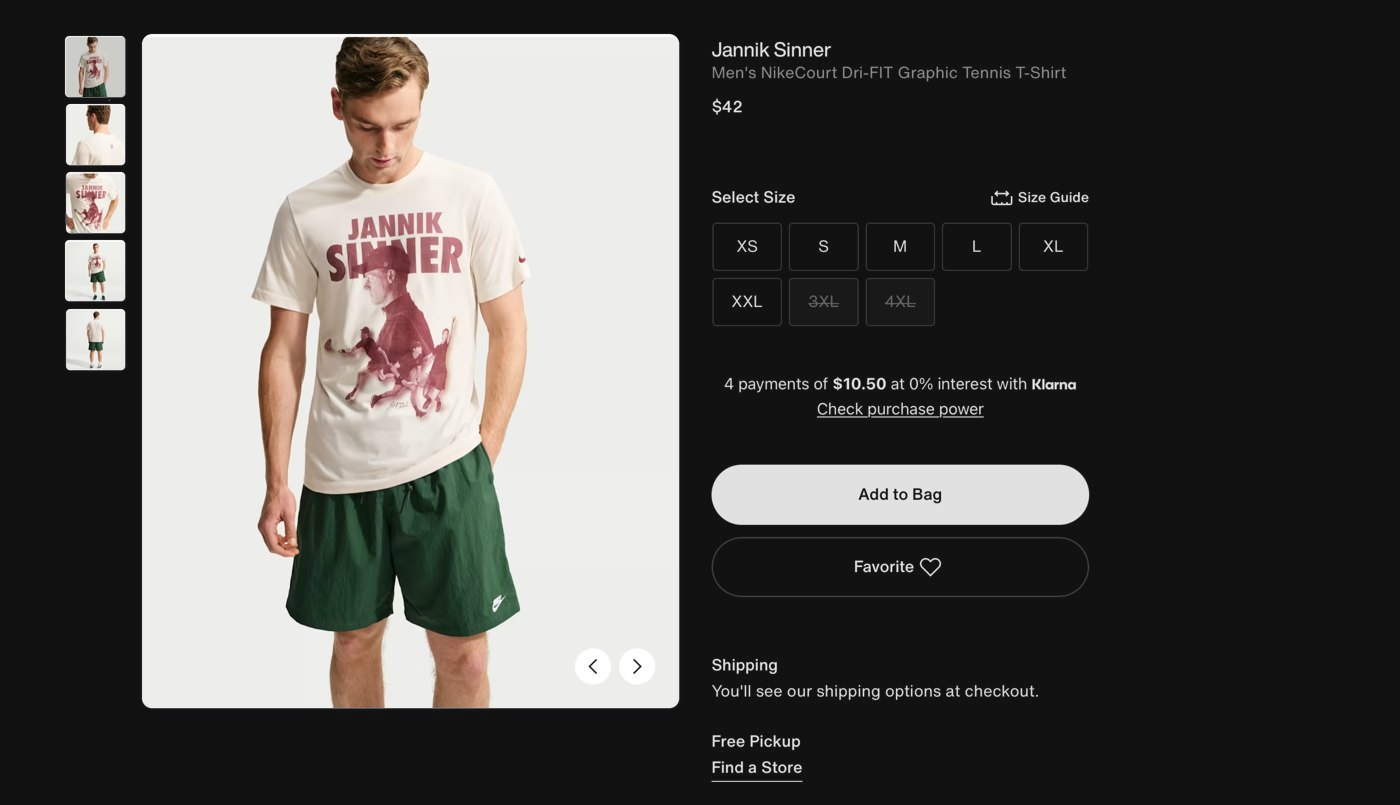
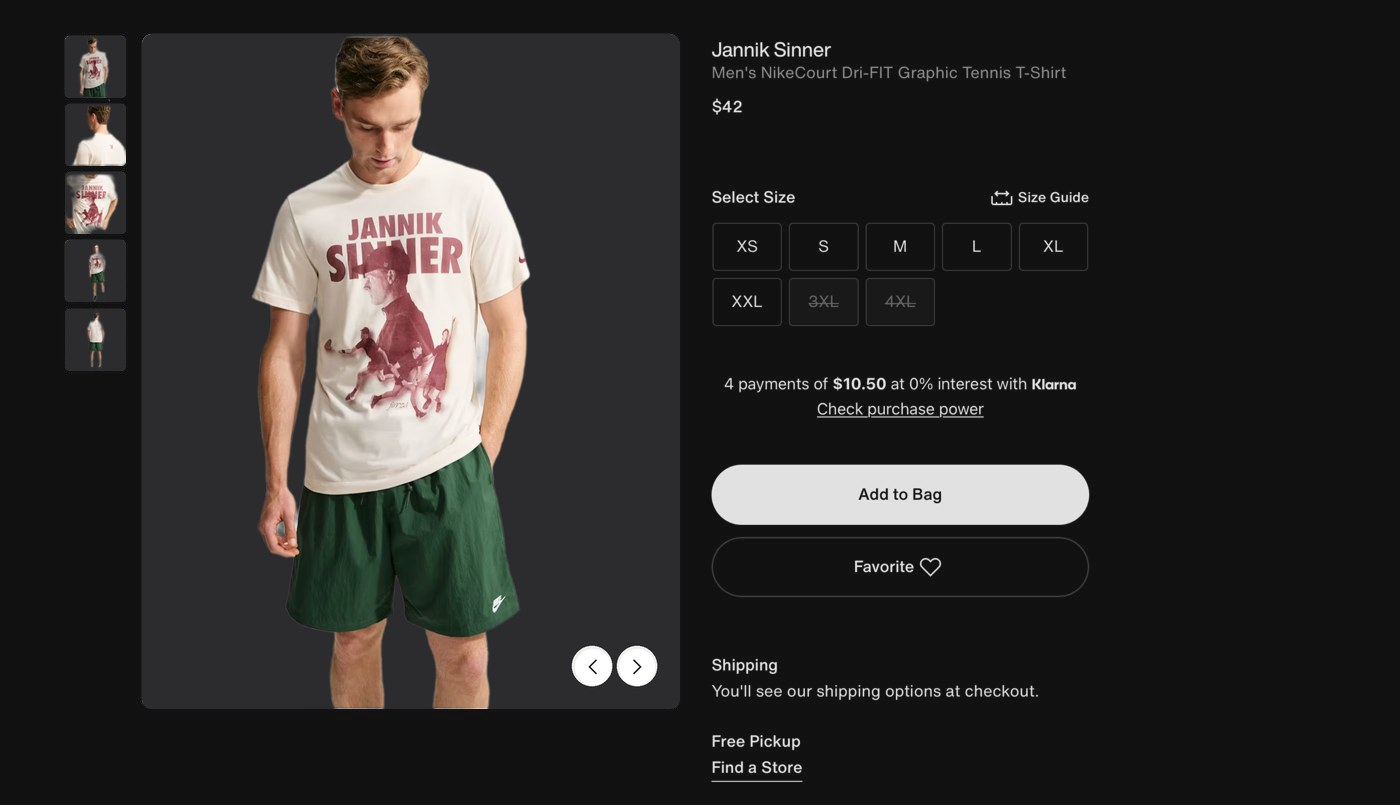
AI page: dark Nike product page puts the photos on a lighter dark gray (person cut out on this Mac with Apple Vision)

Changed region(s): [[0.0307, 0.0311, 0.4914, 0.9006]]

diff --git a/ai/index.html b/ai/index.html
@@ -191,7 +191,7 @@
 </div></div></div><p class="ai-note ai-live">The Korean version, after a Champion Advocate&#x27;s fix went back to the agent. This is a copy of the Champions Hub, rebuilt from a screen recording, and the post is a made-up example.</p><nav class="hb-chapters" aria-label="Skip to a part of the demo"><button type="button" style="--p:0"><span class="hb-fill"></span><span class="hb-ch-t">Share a Post</span></button><button type="button" style="--p:0"><span class="hb-fill"></span><span class="hb-ch-t">Localize</span></button><button type="button" style="--p:0"><span class="hb-fill"></span><span class="hb-ch-t">Champion Fix</span></button><button type="button" style="--p:0"><span class="hb-fill"></span><span class="hb-ch-t">Send to LinkedIn</span></button><button type="button" style="--p:0"><span class="hb-fill"></span><span class="hb-ch-t">Whole Feed</span></button></nav><button class="ai-btn ai-toggle" type="button" aria-label="Pause animation"><svg viewBox="0 0 24 24" aria-hidden="true"><path class="i-pause" d="M9 6v12M15 6v12"/><path class="i-play" d="M8 5.5v13l11-6.5z"/></svg></button></div></figure>
 <section class="wrap prose ai-sec" id="geo"><p class="ai-step">5 · Optimize</p><h2>Written for Search Engines and AI Answers</h2>
 <p>People type keywords into Google and sometimes ask their AI full questions. GEO and AEO, generative and answer engine optimization, mean writing pages that work for both.</p>
-<p>In 2024, I organized QAD Redzone&#x27;s FAQs and blogs so search engines and AI answers could find them. At Nike I wrote alt text and product tags for both kinds of search: for someone who knows exactly what they want, and for someone who only knows roughly.</p></section><figure class="wrap ai-demo ai-geo" data-demo="geo" aria-label="Illustration: a Nike product and a QAD Redzone FAQ, each found by a keyword search and by an AI answer"><script type="application/json" class="ai-data">{"cases": [{"id": "nike", "label": "Nike", "source": "Nike.com product page: what both of them read", "cite": "From the product page", "search": "jannik sinner nike shirt", "ask": "What should I wear to play tennis on a hot day?", "thumbs": ["assets/ai/nike-thumb-1.jpg", "assets/ai/nike-thumb-2.jpg", "assets/ai/nike-thumb-3.jpg"], "results": ["Jannik Sinner Men's NikeCourt Dri-FIT Graphic Tennis T-Shirt", "NikeCourt Men's Dri-FIT Tennis Tops", "Men's Tennis Clothing"], "answer": "For heat, pick a light top that pulls sweat away from your skin. The Jannik Sinner Men's NikeCourt Dri-FIT Graphic Tennis T-Shirt is made for that.", "fields": [["Alt text", "Man wearing the Jannik Sinner NikeCourt Dri-FIT graphic tennis T-shirt in cream with a red print, front view, with green shorts"], ["Product tags", "tennis, men's, Dri-FIT, graphic tee, NikeCourt, Jannik Sinner, cream"], ["Written for", "Someone who knows the shirt, and someone who only roughly knows what they need"]], "page": "assets/ai/nike-pdp.jpg", "page_alt": "The Nike.com product page for the Jannik Sinner Men's NikeCourt Dri-FIT Graphic Tennis T-Shirt", "page_dark": "assets/ai/nike-pdp-dark.jpg"}, {"id": "redzone", "label": "QAD Redzone", "source": "QAD Redzone FAQ and blog: what both of them read", "cite": "From the FAQ", "platform": "Semrush, where I tracked it at QAD Redzone. The numbers are hidden.", "search": "OEE software manufacturing", "ask": "What is OEE, and how do frontline teams improve it?", "thumbs": ["guide", "team", "dash"], "results": ["What Is OEE? A Guide for Manufacturers", "How Frontline Teams Improve OEE", "QAD Redzone Production System"], "answer": "OEE, overall equipment effectiveness, is how much of a line's planned time is truly productive. Frontline teams improve it by tracking losses as they happen and fixing them shift by shift.", "fields": [["FAQ", "The question as the heading, a short answer first, then the detail"], ["Blog", "One question per post, answered in the first lines"], ["Written for", "Someone searching a keyword, and someone asking an AI a full question"]]}], "step": "5 · Optimize"}</script><div class="ai-stage"><div class="hb-views geo-switch" role="group" aria-label="Which example"><button type="button" data-case="0" aria-pressed="true">Nike</button><button type="button" data-case="1" aria-pressed="false">QAD Redzone</button></div><div class="geo-case geo-nike" data-case="0"><div class="geo-grid"><p class="geo-k">Keywords</p><p class="geo-k">A question</p><div class="ai-window geo-pane"><div class="ai-bar" aria-hidden="true"><span class="ai-dots"><i></i><i></i><i></i></span><span class="ai-title">Search engine</span></div><div class="geo-in geo-search"><svg viewBox="0 0 24 24" aria-hidden="true"><circle cx="10.5" cy="10.5" r="6"/><path d="M15 15l5 5"/></svg><span class="geo-typed" data-text="jannik sinner nike shirt">jannik sinner nike shirt</span></div><ul class="geo-results"><li><span class="geo-thumb" aria-hidden="true"><img src="../assets/ai/nike-thumb-1.jpg?v=4a2936bc" alt="" loading="lazy"></span>Jannik Sinner Men&#x27;s NikeCourt Dri-FIT Graphic Tennis T-Shirt</li><li><span class="geo-thumb" aria-hidden="true"><img src="../assets/ai/nike-thumb-2.jpg?v=48887214" alt="" loading="lazy"></span>NikeCourt Men&#x27;s Dri-FIT Tennis Tops</li><li><span class="geo-thumb" aria-hidden="true"><img src="../assets/ai/nike-thumb-3.jpg?v=e3c73d07" alt="" loading="lazy"></span>Men&#x27;s Tennis Clothing</li></ul></div><div class="ai-window geo-pane"><div class="ai-bar" aria-hidden="true"><span class="ai-dots"><i></i><i></i><i></i></span><span class="ai-title">AI assistant</span></div><div class="geo-in geo-ask"><span class="geo-typed" data-text="What should I wear to play tennis on a hot day?">What should I wear to play tennis on a hot day?</span></div><p class="geo-answer"><svg class="ai-spark" viewBox="0 0 24 24" aria-hidden="true"><path d="M12 3c.6 4.2 2.8 6.4 7 7-4.2.6-6.4 2.8-7 7-.6-4.2-2.8-6.4-7-7 4.2-.6 6.4-2.8 7-7Z"/></svg><span>For heat, pick a light top that pulls sweat away from your skin. The Jannik Sinner Men&#x27;s NikeCourt Dri-FIT Graphic Tennis T-Shirt is made for that.</span></p><p class="geo-cite">From the product page</p></div></div><div class="geo-src"><div class="ai-window"><div class="ai-bar" aria-hidden="true"><span class="ai-dots"><i></i><i></i><i></i></span><span class="ai-title">Nike.com product page: what both of them read</span></div><img class="geo-page" src="../assets/ai/nike-pdp.jpg?v=5dee6cad" alt="The Nike.com product page for the Jannik Sinner Men&#x27;s NikeCourt Dri-FIT Graphic Tennis T-Shirt" loading="lazy"><img class="geo-page geo-page-dark" src="../assets/ai/nike-pdp-dark.jpg?v=971993d3" alt="The Nike.com product page for the Jannik Sinner Men&#x27;s NikeCourt Dri-FIT Graphic Tennis T-Shirt" loading="lazy"><ul class="geo-fields"><li><span class="ai-label">Alt text</span><span>Man wearing the Jannik Sinner NikeCourt Dri-FIT graphic tennis T-shirt in cream with a red print, front view, with green shorts</span></li><li><span class="ai-label">Product tags</span><span>tennis, men&#x27;s, Dri-FIT, graphic tee, NikeCourt, Jannik Sinner, cream</span></li><li><span class="ai-label">Written for</span><span>Someone who knows the shirt, and someone who only roughly knows what they need</span></li></ul></div></div></div><div class="geo-case geo-redzone" data-case="1" hidden><div class="geo-grid"><p class="geo-k">Keywords</p><p class="geo-k">A question</p><div class="ai-window geo-pane"><div class="ai-bar" aria-hidden="true"><span class="ai-dots"><i></i><i></i><i></i></span><span class="ai-title">Search engine</span></div><div class="geo-in geo-search"><svg viewBox="0 0 24 24" aria-hidden="true"><circle cx="10.5" cy="10.5" r="6"/><path d="M15 15l5 5"/></svg><span class="geo-typed" data-text="OEE software manufacturing">OEE software manufacturing</span></div><ul class="geo-results"><li><span class="geo-thumb" aria-hidden="true"><svg viewBox="0 0 24 24"><rect class="gt-fill" x="5.5" y="3" width="13" height="18" rx="2"/><path class="gt-line" d="M8.5 8h7M8.5 11.5h7M8.5 15h4.5"/></svg></span>What Is OEE? A Guide for Manufacturers</li><li><span class="geo-thumb" aria-hidden="true"><svg viewBox="0 0 24 24"><circle class="gt-fill" cx="8.5" cy="9" r="3"/><circle class="gt-fill" cx="15.8" cy="9.5" r="2.5"/><path class="gt-fill" d="M3 19c.4-3.2 2.7-5.3 5.5-5.3s5.1 2.1 5.5 5.3zM13.6 14.3c.7-.4 1.4-.6 2.2-.6 2.4 0 4.3 1.8 4.7 4.6h-5.4c-.2-1.6-.7-2.9-1.5-4z"/></svg></span>How Frontline Teams Improve OEE</li><li><span class="geo-thumb" aria-hidden="true"><svg viewBox="0 0 24 24"><rect class="gt-fill" x="3" y="4.5" width="18" height="15" rx="2.5"/><path class="gt-line" d="M6.5 15.5l3.2-3.6 2.8 2.2 4.8-5.6"/><path class="gt-line" d="M6.5 8h3"/></svg></span>QAD Redzone Production System</li></ul></div><div class="ai-window geo-pane"><div class="ai-bar" aria-hidden="true"><span class="ai-dots"><i></i><i></i><i></i></span><span class="ai-title">AI assistant</span></div><div class="geo-in geo-ask"><span class="geo-typed" data-text="What is OEE, and how do frontline teams improve it?">What is OEE, and how do frontline teams improve it?</span></div><p class="geo-answer"><svg class="ai-spark" viewBox="0 0 24 24" aria-hidden="true"><path d="M12 3c.6 4.2 2.8 6.4 7 7-4.2.6-6.4 2.8-7 7-.6-4.2-2.8-6.4-7-7 4.2-.6 6.4-2.8 7-7Z"/></svg><span>OEE, overall equipment effectiveness, is how much of a line&#x27;s planned time is truly productive. Frontline teams improve it by tracking losses as they happen and fixing them shift by shift.</span></p><p class="geo-cite">From the FAQ</p></div></div><div class="geo-src"><div class="ai-window"><div class="ai-bar" aria-hidden="true"><span class="ai-dots"><i></i><i></i><i></i></span><span class="ai-title">QAD Redzone FAQ and blog: what both of them read</span></div><ul class="geo-fields"><li><span class="ai-label">FAQ</span><span>The question as the heading, a short answer first, then the detail</span></li><li><span class="ai-label">Blog</span><span>One question per post, answered in the first lines</span></li><li><span class="ai-label">Written for</span><span>Someone searching a keyword, and someone asking an AI a full question</span></li></ul></div></div><div class="geo-sr"><div class="ai-window sr-window"><div class="ai-bar" aria-hidden="true"><span class="ai-dots"><i></i><i></i><i></i></span><span class="ai-title">Semrush  ·  SEO Dashboard: QAD Redzone</span></div><div class="sr-grid"><section class="sr-box"><p class="sr-tab sr-tab-ai">AI Search</p><div class="sr-tot"><p><span>AI Visibility</span><span class="sr-gauge"></span><b class="sr-v" aria-hidden="true"></b></p><p><span>Mentions</span><b class="sr-v" aria-hidden="true"></b></p><p><span>Cited pages</span><b class="sr-v" aria-hidden="true"></b></p></div><ul class="sr-ai"><li><span class="sr-src sr-g"></span>AI Overview<b class="sr-v" aria-hidden="true"></b><b class="sr-v" aria-hidden="true"></b></li><li><span class="sr-src sr-g"></span>AI Mode<b class="sr-v" aria-hidden="true"></b><b class="sr-v" aria-hidden="true"></b></li><li><span class="sr-src sr-gpt"></span>ChatGPT<b class="sr-v" aria-hidden="true"></b><b class="sr-v" aria-hidden="true"></b></li><li><span class="sr-src sr-gem"></span>Gemini<i class="sr-soon">soon</i></li></ul><p class="sr-h sr-cited-h">Top cited pages</p><ul class="sr-cited"><li><span class="sr-kind">FAQ</span><span class="sr-url">/faq/what-is-oee</span><b class="sr-v" aria-hidden="true"></b></li><li><span class="sr-kind">Blog</span><span class="sr-url">/blog/how-frontline-teams-improve-oee</span><b class="sr-v" aria-hidden="true"></b></li></ul></section><section class="sr-box"><p class="sr-tab sr-tab-seo">SEO</p><ul class="sr-seo"><li><span>Authority Score</span><b class="sr-v" aria-hidden="true"></b></li><li><span>Organic Traffic</span><b class="sr-v" aria-hidden="true"></b></li><li><span>Organic Keywords</span><b class="sr-v" aria-hidden="true"></b></li><li><span>Ref. Domains</span><b class="sr-v" aria-hidden="true"></b></li></ul></section><section class="sr-box sr-wide"><p class="sr-tab sr-tab-pt">Position Tracking</p><div class="sr-pt"><div class="sr-vis"><p class="sr-h">Visibility</p><b class="sr-v" aria-hidden="true"></b><svg class="sr-area" viewBox="0 0 200 80" preserveAspectRatio="none" aria-hidden="true"><path d="M0 34 L14 22 L28 36 L44 20 L60 26 L74 16 L88 30 L102 24 L116 38 L130 30 L146 44 L160 36 L176 48 L200 46 V80 H0Z"/></svg></div><div><p class="sr-h">Keywords</p><ul class="sr-tops"><li><span>Top 3</span><span class="sr-ring"></span><b class="sr-v" aria-hidden="true"></b><svg class="sr-spark" viewBox="0 0 100 20" preserveAspectRatio="none" aria-hidden="true"><path d="M0 14 L12 12 L20 15 L30 8 L40 11 L52 6 L62 10 L74 5 L86 9 L100 7"/></svg></li><li><span>Top 10</span><span class="sr-ring"></span><b class="sr-v" aria-hidden="true"></b><svg class="sr-spark" viewBox="0 0 100 20" preserveAspectRatio="none" aria-hidden="true"><path d="M0 14 L12 12 L20 15 L30 8 L40 11 L52 6 L62 10 L74 5 L86 9 L100 7"/></svg></li><li><span>Top 20</span><span class="sr-ring"></span><b class="sr-v" aria-hidden="true"></b><svg class="sr-spark" viewBox="0 0 100 20" preserveAspectRatio="none" aria-hidden="true"><path d="M0 14 L12 12 L20 15 L30 8 L40 11 L52 6 L62 10 L74 5 L86 9 L100 7"/></svg></li><li><span>Top 100</span><span class="sr-ring"></span><b class="sr-v" aria-hidden="true"></b><svg class="sr-spark" viewBox="0 0 100 20" preserveAspectRatio="none" aria-hidden="true"><path d="M0 14 L12 12 L20 15 L30 8 L40 11 L52 6 L62 10 L74 5 L86 9 L100 7"/></svg></li></ul></div><div><p class="sr-h">Top Keywords</p><p class="sr-kh"><span>Keywords</span><span></span><span>Position</span><span>Visibility</span></p><ul class="sr-kw"><li><span>oee software</span><i class="sr-tag sr-tag-keyword">Keyword</i><b class="sr-v" aria-hidden="true"></b><b class="sr-v" aria-hidden="true"></b></li><li><span>what is oee</span><i class="sr-tag sr-tag-question">Question</i><b class="sr-v" aria-hidden="true"></b><b class="sr-v" aria-hidden="true"></b></li><li><span>how to improve oee</span><i class="sr-tag sr-tag-question">Question</i><b class="sr-v" aria-hidden="true"></b><b class="sr-v" aria-hidden="true"></b></li><li><span>manufacturing downtime</span><i class="sr-tag sr-tag-keyword">Keyword</i><b class="sr-v" aria-hidden="true"></b><b class="sr-v" aria-hidden="true"></b></li><li><span>frontline production</span><i class="sr-tag sr-tag-keyword">Keyword</i><b class="sr-v" aria-hidden="true"></b><b class="sr-v" aria-hidden="true"></b></li></ul></div></div></section></div></div><p class="geo-k sr-note">Semrush, where I tracked it at QAD Redzone. The numbers are hidden.</p></div></div><button class="ai-btn ai-toggle" type="button" aria-label="Pause animation"><svg viewBox="0 0 24 24" aria-hidden="true"><path class="i-pause" d="M9 6v12M15 6v12"/><path class="i-play" d="M8 5.5v13l11-6.5z"/></svg></button></div><figcaption class="ai-note">The Nike product page is real; the searches, questions and wording are examples.</figcaption></figure>
+<p>In 2024, I organized QAD Redzone&#x27;s FAQs and blogs so search engines and AI answers could find them. At Nike I wrote alt text and product tags for both kinds of search: for someone who knows exactly what they want, and for someone who only knows roughly.</p></section><figure class="wrap ai-demo ai-geo" data-demo="geo" aria-label="Illustration: a Nike product and a QAD Redzone FAQ, each found by a keyword search and by an AI answer"><script type="application/json" class="ai-data">{"cases": [{"id": "nike", "label": "Nike", "source": "Nike.com product page: what both of them read", "cite": "From the product page", "search": "jannik sinner nike shirt", "ask": "What should I wear to play tennis on a hot day?", "thumbs": ["assets/ai/nike-thumb-1.jpg", "assets/ai/nike-thumb-2.jpg", "assets/ai/nike-thumb-3.jpg"], "results": ["Jannik Sinner Men's NikeCourt Dri-FIT Graphic Tennis T-Shirt", "NikeCourt Men's Dri-FIT Tennis Tops", "Men's Tennis Clothing"], "answer": "For heat, pick a light top that pulls sweat away from your skin. The Jannik Sinner Men's NikeCourt Dri-FIT Graphic Tennis T-Shirt is made for that.", "fields": [["Alt text", "Man wearing the Jannik Sinner NikeCourt Dri-FIT graphic tennis T-shirt in cream with a red print, front view, with green shorts"], ["Product tags", "tennis, men's, Dri-FIT, graphic tee, NikeCourt, Jannik Sinner, cream"], ["Written for", "Someone who knows the shirt, and someone who only roughly knows what they need"]], "page": "assets/ai/nike-pdp.jpg", "page_alt": "The Nike.com product page for the Jannik Sinner Men's NikeCourt Dri-FIT Graphic Tennis T-Shirt", "page_dark": "assets/ai/nike-pdp-dark.jpg"}, {"id": "redzone", "label": "QAD Redzone", "source": "QAD Redzone FAQ and blog: what both of them read", "cite": "From the FAQ", "platform": "Semrush, where I tracked it at QAD Redzone. The numbers are hidden.", "search": "OEE software manufacturing", "ask": "What is OEE, and how do frontline teams improve it?", "thumbs": ["guide", "team", "dash"], "results": ["What Is OEE? A Guide for Manufacturers", "How Frontline Teams Improve OEE", "QAD Redzone Production System"], "answer": "OEE, overall equipment effectiveness, is how much of a line's planned time is truly productive. Frontline teams improve it by tracking losses as they happen and fixing them shift by shift.", "fields": [["FAQ", "The question as the heading, a short answer first, then the detail"], ["Blog", "One question per post, answered in the first lines"], ["Written for", "Someone searching a keyword, and someone asking an AI a full question"]]}], "step": "5 · Optimize"}</script><div class="ai-stage"><div class="hb-views geo-switch" role="group" aria-label="Which example"><button type="button" data-case="0" aria-pressed="true">Nike</button><button type="button" data-case="1" aria-pressed="false">QAD Redzone</button></div><div class="geo-case geo-nike" data-case="0"><div class="geo-grid"><p class="geo-k">Keywords</p><p class="geo-k">A question</p><div class="ai-window geo-pane"><div class="ai-bar" aria-hidden="true"><span class="ai-dots"><i></i><i></i><i></i></span><span class="ai-title">Search engine</span></div><div class="geo-in geo-search"><svg viewBox="0 0 24 24" aria-hidden="true"><circle cx="10.5" cy="10.5" r="6"/><path d="M15 15l5 5"/></svg><span class="geo-typed" data-text="jannik sinner nike shirt">jannik sinner nike shirt</span></div><ul class="geo-results"><li><span class="geo-thumb" aria-hidden="true"><img src="../assets/ai/nike-thumb-1.jpg?v=4a2936bc" alt="" loading="lazy"></span>Jannik Sinner Men&#x27;s NikeCourt Dri-FIT Graphic Tennis T-Shirt</li><li><span class="geo-thumb" aria-hidden="true"><img src="../assets/ai/nike-thumb-2.jpg?v=48887214" alt="" loading="lazy"></span>NikeCourt Men&#x27;s Dri-FIT Tennis Tops</li><li><span class="geo-thumb" aria-hidden="true"><img src="../assets/ai/nike-thumb-3.jpg?v=e3c73d07" alt="" loading="lazy"></span>Men&#x27;s Tennis Clothing</li></ul></div><div class="ai-window geo-pane"><div class="ai-bar" aria-hidden="true"><span class="ai-dots"><i></i><i></i><i></i></span><span class="ai-title">AI assistant</span></div><div class="geo-in geo-ask"><span class="geo-typed" data-text="What should I wear to play tennis on a hot day?">What should I wear to play tennis on a hot day?</span></div><p class="geo-answer"><svg class="ai-spark" viewBox="0 0 24 24" aria-hidden="true"><path d="M12 3c.6 4.2 2.8 6.4 7 7-4.2.6-6.4 2.8-7 7-.6-4.2-2.8-6.4-7-7 4.2-.6 6.4-2.8 7-7Z"/></svg><span>For heat, pick a light top that pulls sweat away from your skin. The Jannik Sinner Men&#x27;s NikeCourt Dri-FIT Graphic Tennis T-Shirt is made for that.</span></p><p class="geo-cite">From the product page</p></div></div><div class="geo-src"><div class="ai-window"><div class="ai-bar" aria-hidden="true"><span class="ai-dots"><i></i><i></i><i></i></span><span class="ai-title">Nike.com product page: what both of them read</span></div><img class="geo-page" src="../assets/ai/nike-pdp.jpg?v=5dee6cad" alt="The Nike.com product page for the Jannik Sinner Men&#x27;s NikeCourt Dri-FIT Graphic Tennis T-Shirt" loading="lazy"><img class="geo-page geo-page-dark" src="../assets/ai/nike-pdp-dark.jpg?v=945faa39" alt="The Nike.com product page for the Jannik Sinner Men&#x27;s NikeCourt Dri-FIT Graphic Tennis T-Shirt" loading="lazy"><ul class="geo-fields"><li><span class="ai-label">Alt text</span><span>Man wearing the Jannik Sinner NikeCourt Dri-FIT graphic tennis T-shirt in cream with a red print, front view, with green shorts</span></li><li><span class="ai-label">Product tags</span><span>tennis, men&#x27;s, Dri-FIT, graphic tee, NikeCourt, Jannik Sinner, cream</span></li><li><span class="ai-label">Written for</span><span>Someone who knows the shirt, and someone who only roughly knows what they need</span></li></ul></div></div></div><div class="geo-case geo-redzone" data-case="1" hidden><div class="geo-grid"><p class="geo-k">Keywords</p><p class="geo-k">A question</p><div class="ai-window geo-pane"><div class="ai-bar" aria-hidden="true"><span class="ai-dots"><i></i><i></i><i></i></span><span class="ai-title">Search engine</span></div><div class="geo-in geo-search"><svg viewBox="0 0 24 24" aria-hidden="true"><circle cx="10.5" cy="10.5" r="6"/><path d="M15 15l5 5"/></svg><span class="geo-typed" data-text="OEE software manufacturing">OEE software manufacturing</span></div><ul class="geo-results"><li><span class="geo-thumb" aria-hidden="true"><svg viewBox="0 0 24 24"><rect class="gt-fill" x="5.5" y="3" width="13" height="18" rx="2"/><path class="gt-line" d="M8.5 8h7M8.5 11.5h7M8.5 15h4.5"/></svg></span>What Is OEE? A Guide for Manufacturers</li><li><span class="geo-thumb" aria-hidden="true"><svg viewBox="0 0 24 24"><circle class="gt-fill" cx="8.5" cy="9" r="3"/><circle class="gt-fill" cx="15.8" cy="9.5" r="2.5"/><path class="gt-fill" d="M3 19c.4-3.2 2.7-5.3 5.5-5.3s5.1 2.1 5.5 5.3zM13.6 14.3c.7-.4 1.4-.6 2.2-.6 2.4 0 4.3 1.8 4.7 4.6h-5.4c-.2-1.6-.7-2.9-1.5-4z"/></svg></span>How Frontline Teams Improve OEE</li><li><span class="geo-thumb" aria-hidden="true"><svg viewBox="0 0 24 24"><rect class="gt-fill" x="3" y="4.5" width="18" height="15" rx="2.5"/><path class="gt-line" d="M6.5 15.5l3.2-3.6 2.8 2.2 4.8-5.6"/><path class="gt-line" d="M6.5 8h3"/></svg></span>QAD Redzone Production System</li></ul></div><div class="ai-window geo-pane"><div class="ai-bar" aria-hidden="true"><span class="ai-dots"><i></i><i></i><i></i></span><span class="ai-title">AI assistant</span></div><div class="geo-in geo-ask"><span class="geo-typed" data-text="What is OEE, and how do frontline teams improve it?">What is OEE, and how do frontline teams improve it?</span></div><p class="geo-answer"><svg class="ai-spark" viewBox="0 0 24 24" aria-hidden="true"><path d="M12 3c.6 4.2 2.8 6.4 7 7-4.2.6-6.4 2.8-7 7-.6-4.2-2.8-6.4-7-7 4.2-.6 6.4-2.8 7-7Z"/></svg><span>OEE, overall equipment effectiveness, is how much of a line&#x27;s planned time is truly productive. Frontline teams improve it by tracking losses as they happen and fixing them shift by shift.</span></p><p class="geo-cite">From the FAQ</p></div></div><div class="geo-src"><div class="ai-window"><div class="ai-bar" aria-hidden="true"><span class="ai-dots"><i></i><i></i><i></i></span><span class="ai-title">QAD Redzone FAQ and blog: what both of them read</span></div><ul class="geo-fields"><li><span class="ai-label">FAQ</span><span>The question as the heading, a short answer first, then the detail</span></li><li><span class="ai-label">Blog</span><span>One question per post, answered in the first lines</span></li><li><span class="ai-label">Written for</span><span>Someone searching a keyword, and someone asking an AI a full question</span></li></ul></div></div><div class="geo-sr"><div class="ai-window sr-window"><div class="ai-bar" aria-hidden="true"><span class="ai-dots"><i></i><i></i><i></i></span><span class="ai-title">Semrush  ·  SEO Dashboard: QAD Redzone</span></div><div class="sr-grid"><section class="sr-box"><p class="sr-tab sr-tab-ai">AI Search</p><div class="sr-tot"><p><span>AI Visibility</span><span class="sr-gauge"></span><b class="sr-v" aria-hidden="true"></b></p><p><span>Mentions</span><b class="sr-v" aria-hidden="true"></b></p><p><span>Cited pages</span><b class="sr-v" aria-hidden="true"></b></p></div><ul class="sr-ai"><li><span class="sr-src sr-g"></span>AI Overview<b class="sr-v" aria-hidden="true"></b><b class="sr-v" aria-hidden="true"></b></li><li><span class="sr-src sr-g"></span>AI Mode<b class="sr-v" aria-hidden="true"></b><b class="sr-v" aria-hidden="true"></b></li><li><span class="sr-src sr-gpt"></span>ChatGPT<b class="sr-v" aria-hidden="true"></b><b class="sr-v" aria-hidden="true"></b></li><li><span class="sr-src sr-gem"></span>Gemini<i class="sr-soon">soon</i></li></ul><p class="sr-h sr-cited-h">Top cited pages</p><ul class="sr-cited"><li><span class="sr-kind">FAQ</span><span class="sr-url">/faq/what-is-oee</span><b class="sr-v" aria-hidden="true"></b></li><li><span class="sr-kind">Blog</span><span class="sr-url">/blog/how-frontline-teams-improve-oee</span><b class="sr-v" aria-hidden="true"></b></li></ul></section><section class="sr-box"><p class="sr-tab sr-tab-seo">SEO</p><ul class="sr-seo"><li><span>Authority Score</span><b class="sr-v" aria-hidden="true"></b></li><li><span>Organic Traffic</span><b class="sr-v" aria-hidden="true"></b></li><li><span>Organic Keywords</span><b class="sr-v" aria-hidden="true"></b></li><li><span>Ref. Domains</span><b class="sr-v" aria-hidden="true"></b></li></ul></section><section class="sr-box sr-wide"><p class="sr-tab sr-tab-pt">Position Tracking</p><div class="sr-pt"><div class="sr-vis"><p class="sr-h">Visibility</p><b class="sr-v" aria-hidden="true"></b><svg class="sr-area" viewBox="0 0 200 80" preserveAspectRatio="none" aria-hidden="true"><path d="M0 34 L14 22 L28 36 L44 20 L60 26 L74 16 L88 30 L102 24 L116 38 L130 30 L146 44 L160 36 L176 48 L200 46 V80 H0Z"/></svg></div><div><p class="sr-h">Keywords</p><ul class="sr-tops"><li><span>Top 3</span><span class="sr-ring"></span><b class="sr-v" aria-hidden="true"></b><svg class="sr-spark" viewBox="0 0 100 20" preserveAspectRatio="none" aria-hidden="true"><path d="M0 14 L12 12 L20 15 L30 8 L40 11 L52 6 L62 10 L74 5 L86 9 L100 7"/></svg></li><li><span>Top 10</span><span class="sr-ring"></span><b class="sr-v" aria-hidden="true"></b><svg class="sr-spark" viewBox="0 0 100 20" preserveAspectRatio="none" aria-hidden="true"><path d="M0 14 L12 12 L20 15 L30 8 L40 11 L52 6 L62 10 L74 5 L86 9 L100 7"/></svg></li><li><span>Top 20</span><span class="sr-ring"></span><b class="sr-v" aria-hidden="true"></b><svg class="sr-spark" viewBox="0 0 100 20" preserveAspectRatio="none" aria-hidden="true"><path d="M0 14 L12 12 L20 15 L30 8 L40 11 L52 6 L62 10 L74 5 L86 9 L100 7"/></svg></li><li><span>Top 100</span><span class="sr-ring"></span><b class="sr-v" aria-hidden="true"></b><svg class="sr-spark" viewBox="0 0 100 20" preserveAspectRatio="none" aria-hidden="true"><path d="M0 14 L12 12 L20 15 L30 8 L40 11 L52 6 L62 10 L74 5 L86 9 L100 7"/></svg></li></ul></div><div><p class="sr-h">Top Keywords</p><p class="sr-kh"><span>Keywords</span><span></span><span>Position</span><span>Visibility</span></p><ul class="sr-kw"><li><span>oee software</span><i class="sr-tag sr-tag-keyword">Keyword</i><b class="sr-v" aria-hidden="true"></b><b class="sr-v" aria-hidden="true"></b></li><li><span>what is oee</span><i class="sr-tag sr-tag-question">Question</i><b class="sr-v" aria-hidden="true"></b><b class="sr-v" aria-hidden="true"></b></li><li><span>how to improve oee</span><i class="sr-tag sr-tag-question">Question</i><b class="sr-v" aria-hidden="true"></b><b class="sr-v" aria-hidden="true"></b></li><li><span>manufacturing downtime</span><i class="sr-tag sr-tag-keyword">Keyword</i><b class="sr-v" aria-hidden="true"></b><b class="sr-v" aria-hidden="true"></b></li><li><span>frontline production</span><i class="sr-tag sr-tag-keyword">Keyword</i><b class="sr-v" aria-hidden="true"></b><b class="sr-v" aria-hidden="true"></b></li></ul></div></div></section></div></div><p class="geo-k sr-note">Semrush, where I tracked it at QAD Redzone. The numbers are hidden.</p></div></div><button class="ai-btn ai-toggle" type="button" aria-label="Pause animation"><svg viewBox="0 0 24 24" aria-hidden="true"><path class="i-pause" d="M9 6v12M15 6v12"/><path class="i-play" d="M8 5.5v13l11-6.5z"/></svg></button></div><figcaption class="ai-note">The Nike product page is real; the searches, questions and wording are examples.</figcaption></figure>
 <section class="wrap prose ai-sec" id="tools"><h2>Tools I Built With Claude Code and Codex</h2>
 <p>In the evenings I build my own apps with Claude Code and Codex. I tell them what I want in plain English, then test each build and decide how it should look and behave. I use all of these every day.</p></section><div class="wrap ai-demo ai-tools" data-demo="tools"><ul class="tl-grid"><li class="tl-card"><div class="tl-screen"><img src="../assets/ai/heardhum.jpg?v=c509aaef" alt="heardhum" loading="lazy"></div><div class="tl-body"><h3>heardhum</h3><p>A Mac menu bar app that records calls and saves timed transcripts with speaker labels, all on your Mac.</p><a class="tl-cta" href="https://github.com/chrishtean/heardhum/releases/latest" target="_blank" rel="noopener">Download for Mac</a></div></li><li class="tl-card"><div class="tl-screen"><video class="tl-video" src="../assets/ai/budget-ai.mp4?v=f8a1a163" poster="../assets/ai/budget-ai.jpg?v=6a4bee27" muted loop playsinline preload="none" aria-label="Budget AI, a short tour of its screens"></video></div><div class="tl-body"><h3>Budget AI</h3><p>A budgeting app that runs on your own computer, with a review inbox, budgets that understand bills, and a Home Screen widget.</p><span class="tl-cta is-soon">Coming soon</span></div></li><li class="tl-card"><div class="tl-screen is-empty"><span class="tl-icon"><img src="../assets/ai/job-search-ai.png?v=37e7873e" alt="" loading="lazy"></span><span class="tl-soon-n">Screen recording coming soon</span></div><div class="tl-body"><h3>Job Search AI</h3><p>A job search system that runs in your own Claude: it finds roles that fit, tailors a resume and cover letter for each, and tracks every application.</p><span class="tl-cta is-soon">Coming soon</span></div></li><li class="tl-card"><div class="tl-screen"><video class="tl-video" src="../assets/ai/markup-ai.mp4?v=4659d48b" poster="../assets/ai/markup-ai.jpg?v=5a0bfd7c" muted loop playsinline preload="none" aria-label="Markup AI, a short tour of its screens"></video></div><div class="tl-body"><h3>Markup AI</h3><p>Comment threads on top of any app, answered by Claude. I mark up a design, and the change comes back in place.</p><span class="tl-cta is-soon">Coming soon</span></div></li></ul></div>
 <section class="wrap prose ai-sec" id="site"><h2>This Site, Directed With Claude Code</h2>
